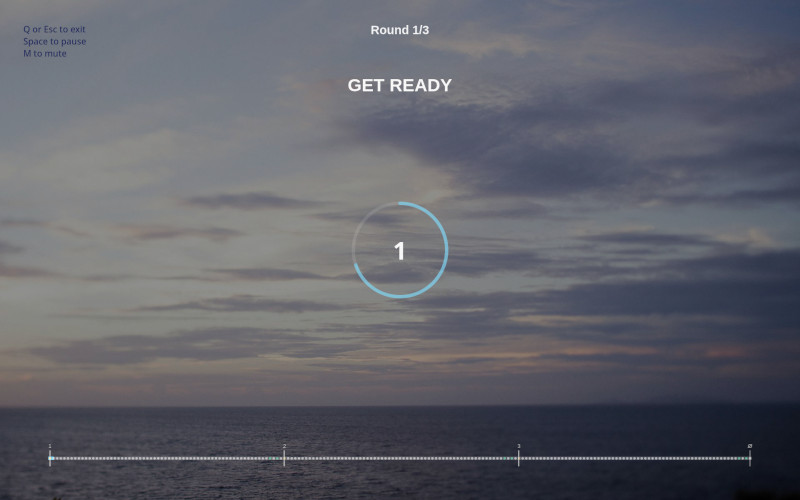
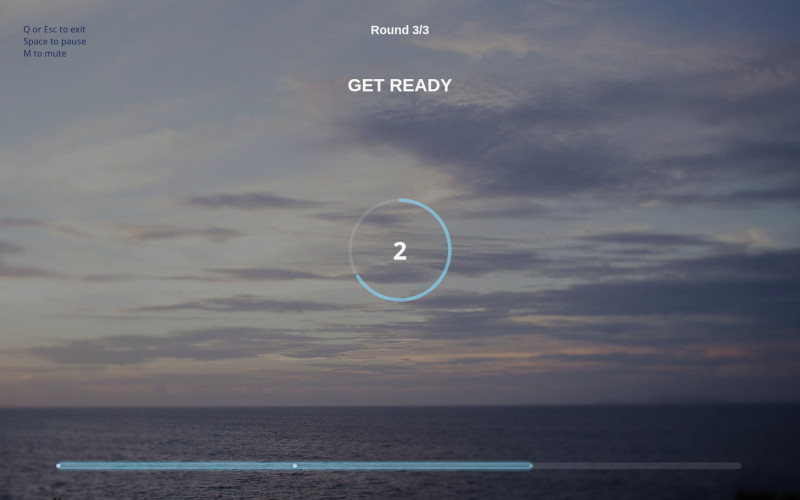
New timeline style

Changed region(s): [[0.0625, 0.9, 0.9375, 0.96], [0.4375, 0.42, 0.5625, 0.6], [0.5, 0.39, 0.5312, 0.42]]

diff --git a/src/wimhof/main.py b/src/wimhof/main.py
@@ -24,7 +24,8 @@ from PySide6.QtGui import (
     QPixmap,
 )
 from PySide6.QtMultimedia import QAudioOutput, QMediaPlayer
-from PySide6.QtWidgets import QApplication, QWidget, QVBoxLayout, QLabel
+from PySide6.QtWidgets import QApplication, QLabel, QVBoxLayout, QWidget
+
 
 class QTimerWithPause(QTimer):
     def __init__(self, parent=None, interval=0, singleShot=False):
@@ -96,7 +97,6 @@ def load_config(path: str) -> list[Phase]:
         inhale = cfg["inhale"]
         exhale = cfg["exhale"]
 
-
         # ====================================================
         # 1. PREPARE PHASE
         # ====================================================
@@ -111,8 +111,6 @@ def load_config(path: str) -> list[Phase]:
                     round_total=total_rounds,
                 )
             )
-
-
 
         # ====================================================
         # 1. BREATHING CYCLES
@@ -294,6 +292,7 @@ class BreathingWidget(QWidget):
             self.player.stop()
 
             return
+
     # --------------------------------------------------------
 
     def tick(self):
@@ -394,10 +393,7 @@ class BreathingWidget(QWidget):
             fade = ease(fade)
             overlay_alpha = int(NORMAL_OVERLAY * fade)
 
-        painter.fillRect(
-            self.rect(),
-            QColor(0, 0, 0, overlay_alpha)
-        )
+        painter.fillRect(self.rect(), QColor(0, 0, 0, overlay_alpha))
 
         # ====================================================
         # DRAW TIMELINE
@@ -487,50 +483,35 @@ class BreathingWidget(QWidget):
         else:
             self.draw_ring(painter, cx, cy)
 
-
         if self.paused:
-            painter.fillRect(
-                self.rect(),
-                QColor(0, 0, 0, 220)
-            )
+            painter.fillRect(self.rect(), QColor(0, 0, 0, 220))
 
             painter.setPen(QColor(255, 255, 255))
 
             painter.setFont(QFont("Arial", 44, QFont.Bold))
 
-            painter.drawText(
-                self.rect(),
-                Qt.AlignCenter,
-                "Press Space to continue"
-            )
+            painter.drawText(self.rect(), Qt.AlignCenter, "Press Space to continue")
 
         elif self.completed:
-            painter.fillRect(
-                self.rect(),
-                QColor(0, 0, 0, 235)
-            )
+            painter.fillRect(self.rect(), QColor(0, 0, 0, 235))
 
             painter.setPen(QColor(255, 255, 255))
 
             painter.setFont(QFont("Arial", 56, QFont.Bold))
 
-            painter.drawText(
-                self.rect(),
-                Qt.AlignCenter,
-                "Completed"
-            )
+            painter.drawText(self.rect(), Qt.AlignCenter, "Completed")
 
             painter.setFont(QFont("Arial", 22))
 
             painter.drawText(
                 self.rect().adjusted(0, 140, 0, 0),
                 Qt.AlignCenter,
-                "Press Space to restart"
+                "Press Space to restart",
             )
 
         painter.end()
 
-   # --------------------------------------------------------
+    # --------------------------------------------------------
 
     def draw_ring(self, painter, cx, cy):
         r = self.radius
@@ -575,9 +556,7 @@ class BreathingWidget(QWidget):
         painter.setPen(bg_pen)
         painter.setBrush(Qt.NoBrush)
 
-        painter.drawEllipse(
-            QRectF(cx - r, cy - r, r * 2, r * 2)
-        )
+        painter.drawEllipse(QRectF(cx - r, cy - r, r * 2, r * 2))
 
         # ====================================================
         # animated disappearing arc
@@ -649,9 +628,7 @@ class BreathingWidget(QWidget):
         painter.setPen(bg_pen)
         painter.setBrush(Qt.NoBrush)
 
-        painter.drawEllipse(
-            QRectF(cx - r, cy - r, r * 2, r * 2)
-        )
+        painter.drawEllipse(QRectF(cx - r, cy - r, r * 2, r * 2))
 
         # ====================================================
         # animated arc
@@ -671,72 +648,60 @@ class BreathingWidget(QWidget):
             start_angle,
             int(span_angle),
         )
+
     # --------------------------------------------------------
 
     def draw_timeline(self, painter):
-        x1 = 120
-        x2 = self.width() - 120
+        margin = 140
 
-        y = self.height() - 100
+        x = margin
+        y = self.height() - 90
 
-        w = x2 - x1
+        w = self.width() - margin * 2
+        h = 16
 
-        # ====================================================
-        # background line
-        # ====================================================
+        radius = h / 2
 
-        pen = QPen(QColor(255, 255, 255, 60))
-        pen.setWidth(8)
-
-        painter.setPen(pen)
-
-        painter.drawLine(x1, y, x2, y)
-
-        # ====================================================
-        # progress
-        # ====================================================
-
-        total = len(self.phases)
+        rect = QRectF(x, y, w, h)
 
         progress = self.current_progress()
-        # progress = self.index / max(1, total - 1)
 
-        px = x1 + w * progress
+        fill_w = w * progress
 
-        pen = QPen(QColor(120, 220, 255, 220))
-        pen.setWidth(8)
-
-        painter.setPen(pen)
-
-        painter.drawLine(x1, y, int(px), y)
+        fill_rect = QRectF(x, y, fill_w, h)
 
         # ====================================================
-        # phase markers
+        # background bar
         # ====================================================
 
-        for i, ph in enumerate(self.phases):
-            marker_x = x1 + w * (i / max(1, total - 1))
+        painter.setPen(Qt.NoPen)
 
-            alpha = 140
+        painter.setBrush(QColor(255, 255, 255, 28))
 
-            if i <= self.index:
-                alpha = 255
-
-            painter.setPen(Qt.NoPen)
-
-            if ph.type == "prepare":
-                painter.setBrush(QColor(255, 220, 120, alpha))
-            elif ph.type in ("hold", "final_hold"):
-                painter.setBrush(QColor(120, 255, 200, alpha))
-            else:
-                painter.setBrush(QColor(255, 255, 255, alpha))
-
-            painter.drawEllipse(
-                QRectF(marker_x - 3, y - 3, 6, 6)
-            )
+        painter.drawRoundedRect(rect, radius, radius)
 
         # ====================================================
-        # round markers
+        # progress fill
+        # ====================================================
+
+        painter.setBrush(QColor(120, 220, 255, 90))
+
+        painter.drawRoundedRect(fill_rect, radius, radius)
+
+        # ====================================================
+        # subtle glow
+        # ====================================================
+
+        glow_pen = QPen(QColor(120, 220, 255, 40))
+        glow_pen.setWidth(10)
+
+        painter.setPen(glow_pen)
+        painter.setBrush(Qt.NoBrush)
+
+        painter.drawRoundedRect(fill_rect, radius, radius)
+
+        # ====================================================
+        # round markers only
         # ====================================================
 
         round_positions = {}
@@ -745,46 +710,35 @@ class BreathingWidget(QWidget):
             if ph.round_index not in round_positions:
                 round_positions[ph.round_index] = i
 
-        painter.setPen(QPen(QColor(255, 255, 255, 180), 2))
+        total = len(self.phases)
 
-        for r, idx in round_positions.items():
-            rx = x1 + w * (idx / max(1, total - 1))
+        for _, idx in round_positions.items():
+            marker_progress = idx / max(1, total - 1)
 
-            painter.drawLine(rx, y - 18, rx, y + 18)
+            mx = x + w * marker_progress
 
-            painter.setFont(QFont("Arial", 10))
+            active = progress >= marker_progress
 
-            painter.drawText(
-                QRectF(rx - 30, y - 40, 60, 20),
-                Qt.AlignCenter,
-                str(r),
+            if active:
+                color = QColor(220, 240, 255, 180)
+                size = 10
+            else:
+                color = QColor(255, 255, 255, 70)
+                size = 8
+
+            painter.setPen(Qt.NoPen)
+            painter.setBrush(color)
+
+            painter.drawEllipse(
+                QRectF(
+                    mx - size / 2,
+                    y + h / 2 - size / 2,
+                    size,
+                    size,
+                )
             )
 
-        # ====================================================
-        # final completion marker
-        # ====================================================
-
-        final_x = x2
-
-        painter.setPen(QColor(255, 255, 255, 180))
-
-        painter.setFont(QFont("Arial", 10))
-
-        painter.drawText(
-            QRectF(final_x - 20, y - 42, 40, 24),
-            Qt.AlignCenter,
-            "∅",
-        )
-
-        # subtle final vertical marker
-
-        pen = QPen(QColor(255, 255, 255, 120))
-        pen.setWidth(2)
-
-        painter.setPen(pen)
-
-        painter.drawLine(final_x, y - 18, final_x, y + 18)
-
+    # --------------------------------------------------------
 
     def eventFilter(self, obj: QObject, event: QEvent) -> bool:
         if event.type() == QEvent.Type.KeyPress:
@@ -795,14 +749,13 @@ class BreathingWidget(QWidget):
                 return True
 
             elif key.key() == Qt.Key.Key_M:
-
                 self.muted = not self.muted
 
                 if self.muted and not self.paused and not self.completed:
                     self.player.pause()
                 else:
                     if not (self.paused or self.completed or self.muted):
-                       self.player.play()
+                        self.player.play()
 
                 return True
 

diff --git a/README.md b/README.md
@@ -50,7 +50,7 @@ Each round consists of:
 
 ![demo/demo-v.0.1.0-preview.png](demo/demo-v.0.1.0.jpg)
 
-##### [demo/demo-v.0.1.0.webm](demo/demo-v.0.1.0.webm) (1.1 Mb)
+##### [demo/demo-v.0.1.0.webm](demo/demo-v.0.1.0.webm) (1.0 Mb)
 
 ## 📁 Project Structure
 